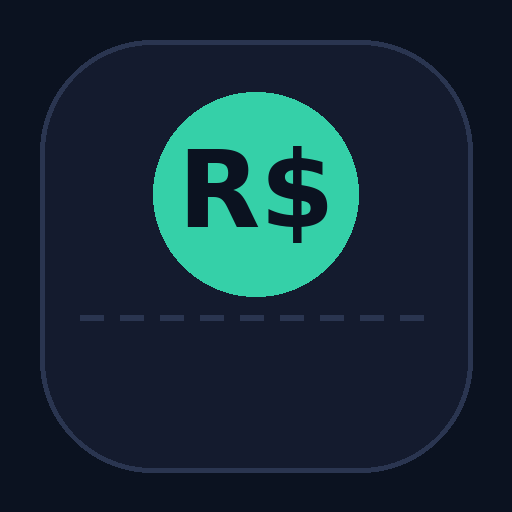
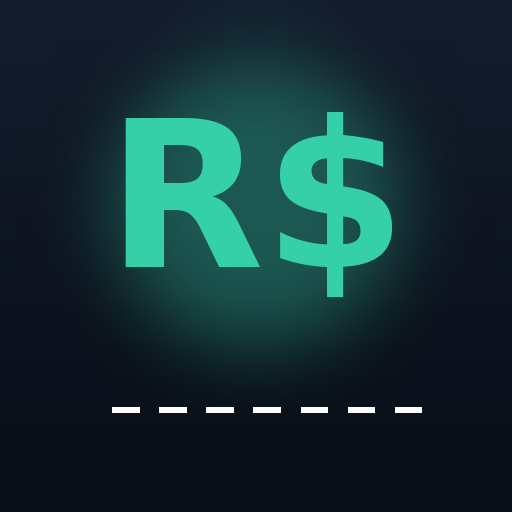
Corrige o botao Apagar do swipe e renova o icone do app

diff --git a/index.html b/index.html
@@ -779,7 +779,11 @@
 
   app.addEventListener("touchstart", e=>{
     const main = e.target.closest(".row-main");
-    if(openRow && openRow !== main) closeRow(openRow);
+    const touchedRow = e.target.closest(".row");
+    const openRowEl = openRow ? openRow.closest(".row") : null;
+    // só fecha se o toque foi em OUTRA linha — tocar no botão "Apagar"
+    // da própria linha aberta não deve fechá-la antes do clique acontecer
+    if(openRow && touchedRow !== openRowEl) closeRow(openRow);
     if(!main) return;
     drag = {main, x:e.touches[0].clientX, y:e.touches[0].clientY, start:offOf(main), dir:null};
     main.classList.remove("animate");

diff --git a/sw.js b/sw.js
@@ -1,4 +1,4 @@
-const CACHE = "financas-v4";
+const CACHE = "financas-v5";
 const ASSETS = [
   "./",
   "./index.html",
